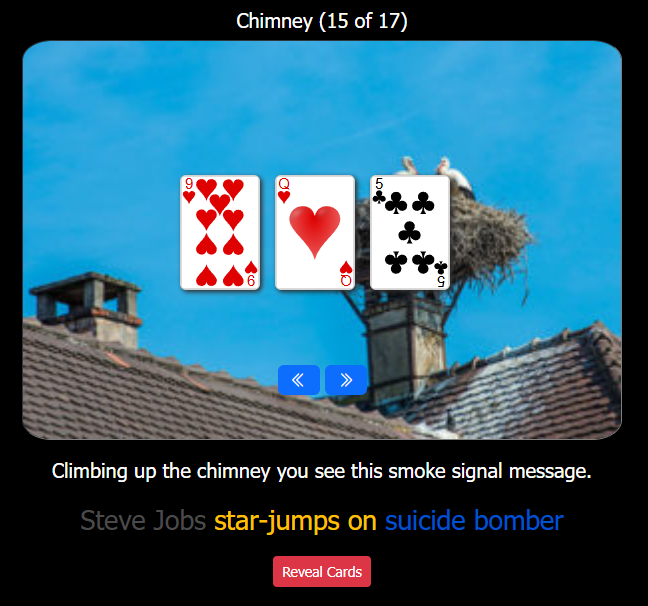
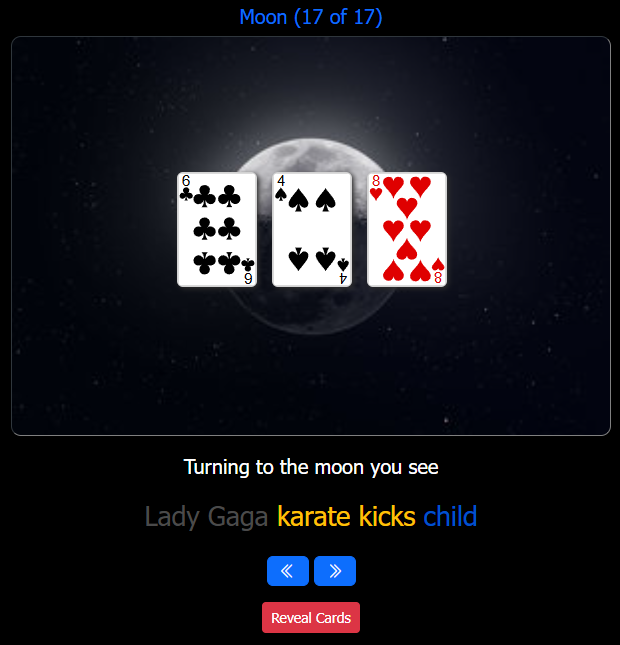
minor update

diff --git a/README.md b/README.md
@@ -55,10 +55,10 @@ It consists of the following main components:
 <p>The random card represents a visual image of the person behind the card. This should help you recall the PAO values.</p>
 <p>So the correct answers, in this case, are</p>
 
-- Person = Victoria Beckham
-- Action = Applies makeup in front of
-- Object = Mirror
-- Card = Queen of Clubs.
+- Person = Mohammad Ali
+- Action = Knocks out
+- Object = Butterfly
+- Card = Ace of Spades.
 
 ## Memory Palace
 
@@ -70,45 +70,46 @@ in your mind.
 
 The location sentence is created by combining the different PAO values from its three cards:<br>
 
-- Card 1: Person value = Steve Jobs<br>
-- Card 2: Action value = star-jumps on<br>
-- Card 3: Object value = suicide bomber<br>
+Example:<br>
+- Card 1: Person value = Lady Gaga<br>
+- Card 2: Action value = karate kicks<br>
+- Card 3: Object value = child<br>
 
-Giving the sentence: "Steve Jobs star-jumps on suicide bomber".
+Giving the sentence: "Lady Gaga karate kicks child".
 
 ### Reversing the thought process
 
 Imagine you're done going through all the cards and recall the first location sentence like the one above:
 
 <div style="font-size: 20pt">
-<span style="color:#5A5A5A;">Steve Jobs</span> <span style="color:#FFC107">star-jumps on</span> <span style="color:#0052CC">suicide bomber</span>
+<span style="color:#5A5A5A;">Lady Gaga</span> <span style="color:#FFC107">karate kicks</span> <span style="color:#0052CC">child</span>
 </div>
 
 #### First card (Steve Jobs):
 
-- You recall the powerful and charismatic entrepreneur.
-- A powerful person = matrix columns (9, 10).
-- A male = odd number = 9.
-- In the lovable group / suit = Hearts.
-- Card = 9 of Hearts.
+- You recall Lady Gaga as being a controversial personality.
+- A controversial person = matrix columns (5, 6).
+- A female = even number = 6.
+- In the crazy group / suit = Clubs.
+- Card = 6 of Clubs.
 
-#### Second card (star-jumps on):
+#### Second card (karate kicks):
 
-- You recall celebrity Michelle Obama is the one doing star-jumps.
-- A celebrity = matrix columns (12, 13).
-- A female = even number = 12 (Queen).
+- You recall movie star character Lara Croft karate kicking an ancient tomb.
+- A movie star = matrix columns (3, 4).
+- A female = even number = 4.
+- In the weird category / suit = Spades.
+- Card = 4 of Spades.
+
+#### Third card (child):
+
+- You recall the beauty Pamela Anderson who saves a drowning child.
+- A brain/beauty = matrix columns (7, 8).
+- A female = even number = 8.
 - In the lovable category / suit = Hearts.
-- Card = Queen of Hearts.
+- Card = 8 of Hearts.
 
-#### Third card (suicide bomber):
-
-- You recall the controversial Bin Laden recording a video of a suicide bomber.
-- A controversial = matrix columns (5, 6).
-- A male = odd number = 5.
-- In the crazy category / suit = Clubs.
-- Card = 5 of Clubs.
-
-<p>So the result = (9 of Hearts), (Queen of Hearts) and (5 of Clubs).</p>
+<p>So the result = (9 of Clubs), (4 of Spades) and (8 of Hearts).</p>
 
 ## More Information
 
